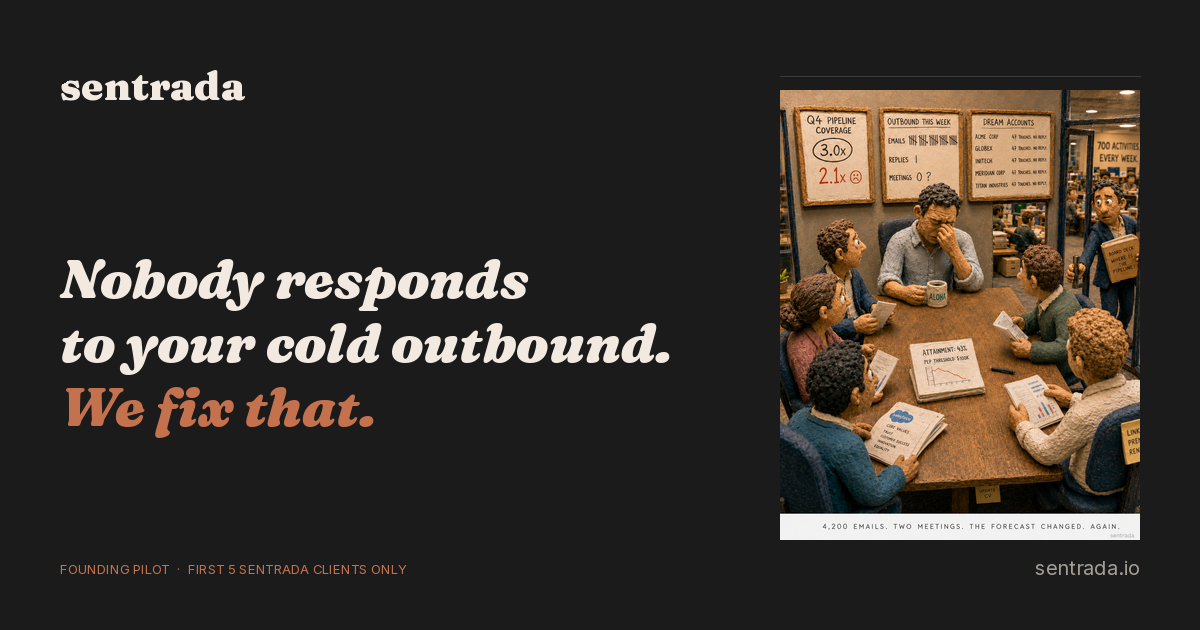
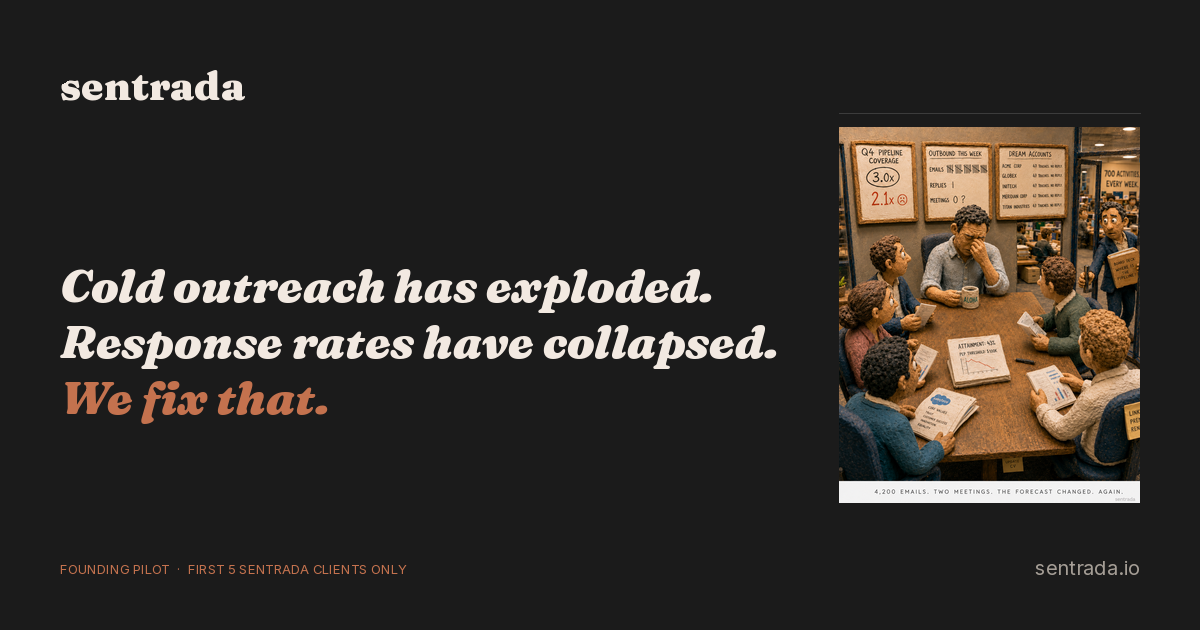
Restore hero simplicity and drop to two formats
Hero
- Cut the three new text elements (diagnostic, bridge, dream-accounts
  h1) and the pronunciation. The hero block was carrying five
  different text sizes and the "what you are looking at" lede had
  lost its referent
- New h1: "Cold outreach has exploded. Response rates have collapsed.
  We fix that." Combines the diagnostic framing with the punchline.
  Clay accent on "We fix that." as before. Restored to a real h1
  scale (clamp 30-52px) since the line is shorter and the hero
  needs a real anchor
- Lede stays where it was, directly under the h1, so it reads as
  "Here's the problem, we fix it - here's what you're looking at"
- Removed .hero-diagnostic and .hero-bridge CSS rules entirely
- Pronunciation moved to the footer next to sentrada.io

Formats
- Dropped the Postcard from the Future / Company Wrapped slot per
  the v0.1 launch decision: two formats (Newspaper + Claymation)
- Section aria-label "three formats" -> "the formats"
- Kicker "Three formats..." -> "Two formats..."
- Removed assets/postcard.{png,webp} and postcard-sm.webp

Meta / OG
- Page <title>, og:title, twitter:title, og:image:alt all updated
  to the new pain line for consistency with the hero
- OG image rebuilt with three-beat layout at 46px italic:
  "Cold outreach has exploded. / Response rates have collapsed. /
  We fix that." Claymation thumbnail scaled to 301x376 on the
  right to make room for the longer headline

Net effect: dream-accounts statement now appears twice on the page
[…]

Changed region(s): [[0.0308, 0.1206, 0.9558, 0.8746]]

diff --git a/index.html b/index.html
@@ -3,24 +3,24 @@
 <head>
   <meta charset="utf-8" />
   <meta name="viewport" content="width=device-width, initial-scale=1, viewport-fit=cover" />
-  <title>Sentrada · Nobody responds to your cold outbound. We fix that.</title>
+  <title>Sentrada · Cold outreach has exploded. Response rates have collapsed. We fix that.</title>
   <meta name="description" content="Sentrada builds bespoke physical pieces, researched from scratch and delivered to one person's desk. Founding pilot now open." />
   <meta name="theme-color" content="#1B1B1B" />
 
   <!-- Open Graph -->
   <meta property="og:type" content="website" />
   <meta property="og:site_name" content="Sentrada" />
-  <meta property="og:title" content="Sentrada · Nobody responds to your cold outbound. We fix that." />
+  <meta property="og:title" content="Sentrada · Cold outreach has exploded. Response rates have collapsed. We fix that." />
   <meta property="og:description" content="Bespoke physical outreach, researched from scratch and delivered to one person's desk. Founding pilot now open." />
   <meta property="og:url" content="https://sentrada.io" />
   <meta property="og:image" content="https://sentrada.io/assets/og.png" />
   <meta property="og:image:width" content="1200" />
   <meta property="og:image:height" content="630" />
-  <meta property="og:image:alt" content="Sentrada. Nobody responds to your cold outbound. We fix that. Founding pilot, first 5 Sentrada clients only." />
+  <meta property="og:image:alt" content="Sentrada. Cold outreach has exploded. Response rates have collapsed. We fix that. Founding pilot, first 5 Sentrada clients only." />
 
   <!-- Twitter card -->
   <meta name="twitter:card" content="summary_large_image" />
-  <meta name="twitter:title" content="Sentrada · Nobody responds to your cold outbound. We fix that." />
+  <meta name="twitter:title" content="Sentrada · Cold outreach has exploded. Response rates have collapsed. We fix that." />
   <meta name="twitter:description" content="Bespoke physical outreach, researched from scratch and delivered to one person's desk. Founding pilot now open." />
   <meta name="twitter:image" content="https://sentrada.io/assets/og.png" />
 
@@ -60,19 +60,13 @@
           decoding="async" />
       </figure>
       <div class="hero-copy">
-        <p class="hero-diagnostic reveal">
-          The volume of cold outreach has exploded. Response rates have collapsed.
-        </p>
-        <p class="hero-bridge reveal">Something has to change.</p>
         <h1 class="display reveal">
-          Name your 10 dream accounts. We'll put something on their desk they've never seen before.
+          Cold outreach has exploded. Response rates have collapsed.
+          <span class="accent">We fix that.</span>
         </h1>
         <p class="lede reveal">
           What you are looking at is a bespoke physical piece. Researched from scratch.
           Printed at A2 on foam core. Delivered to one person's desk.
-        </p>
-        <p class="pronounce reveal" aria-label="Pronunciation">
-          <span class="brand-name">Sentrada</span> <span class="phon">(sen-TRAH-da)</span>
         </p>
         <div class="cta-row reveal">
           <a class="cta primary" href="https://calendar.app.google/ncFJSphS8WRbvKzf8" data-cta="hero" target="_blank" rel="noopener">Book a call</a>
@@ -80,10 +74,10 @@
       </div>
     </section>
 
-    <!-- 2. THE THREE FORMATS -->
-    <section class="formats" aria-label="The three formats">
+    <!-- 2. THE FORMATS -->
+    <section class="formats" aria-label="The formats">
       <div class="section-intro reveal">
-        <p class="kicker">Three formats. One company at a time. Every piece crafted from scratch.</p>
+        <p class="kicker">Two formats. One company at a time. Every piece crafted from scratch.</p>
         <p class="section-lede">
           Each piece is crafted from scratch for a single recipient. It lands on the
           desk of the person who owns the budget and the mandate. Not the analyst.
@@ -130,26 +124,6 @@
           </figcaption>
         </figure>
 
-        <figure class="piece reveal">
-          <div class="piece-img">
-            <img src="assets/postcard.webp"
-                 srcset="assets/postcard-sm.webp 800w, assets/postcard.webp 1492w"
-                 sizes="(max-width: 880px) 100vw, 33vw"
-                 alt="Postcard from the Future: a future-dated dispatch from a world where the prospect has chosen to work with you."
-                 width="1492" height="1054"
-                 loading="lazy" decoding="async" />
-          </div>
-          <figcaption>
-            <h3 class="piece-title">The Company Wrapped</h3>
-            <p class="piece-body">
-              Your prospect's company turned into a data story. Growth metrics,
-              strategic initiatives, market position, and an archetype reveal with
-              rarity percentages. Every card is built from real, verifiable research.
-              Best when the buyer respects depth, insight, and beautifully presented
-              data.
-            </p>
-          </figcaption>
-        </figure>
       </div>
 
       <p class="companion reveal">
@@ -273,6 +247,8 @@
       <img src="assets/logoonblack.webp" alt="Sentrada" width="600" height="200" />
     </a>
     <div class="footer-meta">
+      <span class="footer-pronounce">Sentrada <em>(sen-TRAH-da)</em></span>
+      <span class="dot" aria-hidden="true">·</span>
       <span>sentrada.io</span>
       <span class="dot" aria-hidden="true">·</span>
       <a href="mailto:[email redacted]">[email redacted]</a>

diff --git a/styles.css b/styles.css
@@ -100,12 +100,12 @@ a { color: inherit; }
   font-feature-settings: "ss01" on, "ss02" on;
 }
 h1.display {
-  font-size: clamp(22px, 2.8vw, 36px);
-  line-height: 1.15;
+  font-size: clamp(30px, 4.4vw, 52px);
+  line-height: 1.08;
   margin: 0;
   color: var(--stone);
   font-weight: 500;
-  letter-spacing: -0.015em;
+  letter-spacing: -0.018em;
 }
 .accent { color: var(--clay); }
 
@@ -207,32 +207,8 @@ h1.display {
   margin: 0 auto;
   padding: clamp(40px, 7vw, 84px) var(--gutter) 0;
 }
-.hero-copy h1 { max-width: 32ch; }
+.hero-copy h1 { max-width: 20ch; }
 .hero-copy .lede { margin-top: 22px; }
-
-/* Three-line hero hierarchy. Same family, modulating weight/style/colour
-   for a unified editorial block rather than three competing voices. */
-.hero-diagnostic {
-  font-family: var(--display);
-  font-weight: 300;
-  font-size: clamp(18px, 1.9vw, 22px);
-  line-height: 1.4;
-  letter-spacing: -0.005em;
-  color: var(--stone-dim);
-  margin: 0 0 16px;
-  max-width: 36ch;
-}
-.hero-bridge {
-  font-family: var(--display);
-  font-style: italic;
-  font-weight: 400;
-  font-size: clamp(20px, 2.2vw, 28px);
-  line-height: 1.3;
-  letter-spacing: -0.005em;
-  color: var(--stone);
-  margin: 0 0 20px;
-  max-width: 28ch;
-}
 
 /* ---------- Section base ---------- */
 section {
@@ -648,6 +624,7 @@ section {
 .footer-meta a { color: var(--stone); text-decoration: none; }
 .footer-meta a:hover { color: var(--clay); }
 .footer-meta .dot { color: var(--stone-faint); }
+.footer-pronounce em { font-family: var(--display); font-style: italic; color: var(--stone-dim); }
 
 /* ---------- Reveal animation ---------- */
 .reveal {